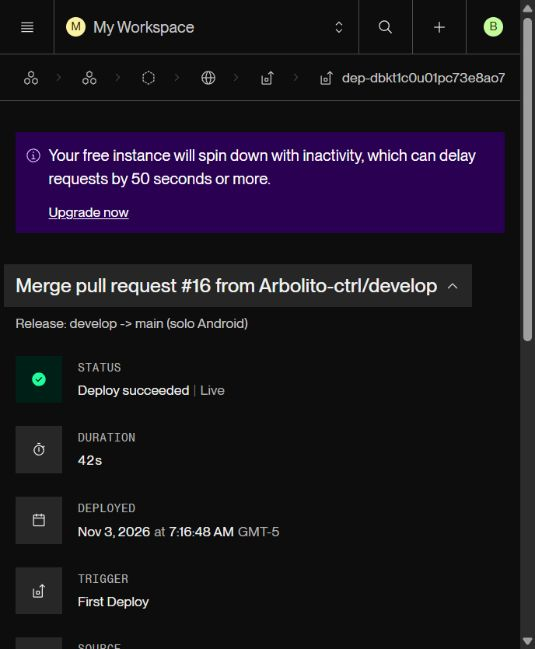
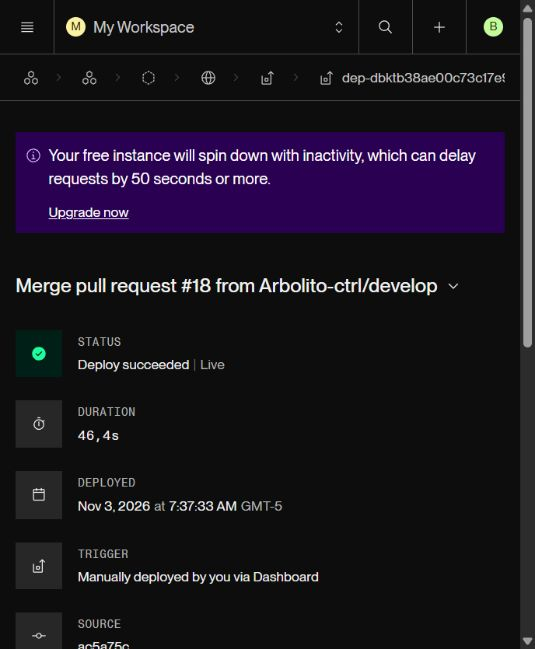
docs: registrar APK de produccion y reserva validada en TECNO

Changed region(s): [[0.0, 0.4006, 0.8972, 1.0], [0.7477, 0.0924, 0.957, 0.1541], [0.957, 0.5239, 1.0, 0.5547]]

diff --git a/backend/src/scripts/generatePdf.ts b/backend/src/scripts/generatePdf.ts
@@ -274,16 +274,16 @@ function generatePdf() {
 
   doc.addPage();
   h1('7. DESPLIEGUE Y VALIDACIÓN DE INFRAESTRUCTURA - ISSUE #14');
-  p('Responsable:', 'Juan Medina (jc2709). Rama juan/despliegue-apk-validacion y PR #17 a develop. Revisión: 3 de noviembre de 2026.');
-  p('API pública:', 'https://luxxito-sports-api.onrender.com/api. GET /health comprobado con HTTP 200 y db_mode POSTGRES_POOL. Primer despliegue Render del commit f4a507a de main.');
+  p('Responsable:', 'Juan Medina (jc2709). PR #17 integrado a develop con squash; PR #18 a main con merge commit. Revisión: 3 de noviembre de 2026.');
+  p('API pública:', 'https://luxxito-sports-api.onrender.com/api. GET /health comprobado con HTTP 200, db_mode POSTGRES_POOL y db_ready=true. Commit ac5a75c de main activo en Render a las 07:38 de Perú.');
   p('Servicio:', 'Render Free, Node 22, raíz backend, build npm ci --include=dev && npm run build, inicio node dist/server.js y health /api/health. Las variables privadas solo se configuran en Render; no están en Git.');
   p('Workflow del APK:', 'Los secretos pasan por env y los argumentos --dart-define se entrecomillan. Una validación previa rechaza URLs con espacios/paréntesis o IPs locales. API_BASE_URL apunta a la API pública.');
   p('Consumo de API propia:', 'El APK no cambia silenciosamente a Supabase directo. El teléfono usa HTTPS y dispone de 60 segundos de timeout para el despertar del servicio gratuito. La descarga debe provenir del release latest-apk actualizado.');
   p('Historial integrado:', 'PR #11: promoción de identidad, QR y expiración; PR #12: endpoint comprobantes/RPC; PR #13: promoción; PR #15/#16: enfoque solo Android. La integración de un endpoint no demuestra por sí sola que su función esté completa.');
-  p('Comprobaciones de este cambio:', 'Build backend correcto; 21/21 pruebas API locales y 3/3 pruebas de configuración. CI del PR verde para el commit 2a2b341. Resultado final del APK y promoción: consultar el informe de validación actualizado.');
-  p('Pendiente Android físico:', 'Instalar el APK actual, registrar modelo/versión y capturar el recorrido. No se declara completada la prueba de punta a punta sin esa evidencia.');
+  p('Comprobaciones de este cambio:', 'Build backend correcto; 21/21 pruebas API locales y 3/3 pruebas de configuración. CI y workflow APK de main verdes. Release latest-apk del commit ac5a75c: versión 1.0.22, build 22.');
+  p('Android físico comprobado:', 'TECNO KJ5, Android 13: instalación, login demo, 6 canchas y Perfil correctos. Reserva #1 del 04/11/2026, 07:00-08:00, con 1 juego de chalecos: S/105. Se recupera tras cerrar la app y volver a iniciar sesión. Capturas en el informe de validación.');
   p('Fuera de este cambio:', 'Los fallos de pagos, upload de comprobantes y persistencia QR se atenderán después, por indicación de Juan. No se presentan aquí como corregidos; el criterio completo de aceptación de la issue sigue abierto.');
-  p('Evidencia:', 'docs/validaciones/2026-11-03-infra-issue14.md y capturas/infra-render-live.jpg. El PDF distingue pruebas locales, servicio publicado y validación física pendiente.');
+  p('Evidencia y límites:', 'docs/validaciones/2026-11-03-infra-issue14.md y capturas/. No se probó registro nuevo ni vencimiento físico tras 20 minutos. Las pruebas físicas cubren acceso, catálogo y reserva, sin pago, upload ni QR.');
 
   doc.end();
 

diff --git a/docs/validaciones/2026-11-03-infra-issue14.md b/docs/validaciones/2026-11-03-infra-issue14.md
@@ -1,35 +1,58 @@
 # Infraestructura de entrega — issue #14
 
 Fecha: 3 de noviembre de 2026 (Perú). Responsable: **Juan Medina (`jc2709`)**.
-Rama: `juan/despliegue-apk-validacion`. PR: https://github.com/Arbolito-ctrl/LuxxitoSports/pull/17.
+Rama de implementación: `juan/despliegue-apk-validacion`. [PR #17](https://github.com/Arbolito-ctrl/LuxxitoSports/pull/17) integrado a develop con squash (`670df99`); [PR #18](https://github.com/Arbolito-ctrl/LuxxitoSports/pull/18) integrado a main con merge commit (`ac5a75c`). Evidencia posterior en `juan/evidencia-android-infra`.
 
 ## Alcance acordado
 
-Workflow APK, servicio público, configuración de conexión y documentación. Los fallos de pagos, comprobantes y QR se atenderán después, según indicación de Juan. Esta evidencia no los declara corregidos ni cierra la aceptación de Android físico.
+Workflow APK, servicio público, configuración de conexión, prueba física de acceso/catálogo/reserva y documentación. Los fallos de pagos, comprobantes y QR se atenderán después, según indicación de Juan. Esta evidencia no los declara corregidos ni cierra la aceptación completa de la issue.
 
 ## Resultados observados
 
 | Comprobación | Evidencia / resultado |
 |---|---|
 | Conexión privada a PostgreSQL | `SELECT 1` correcto; no se muestra la cadena de conexión. |
-| Render | Servicio Free creado; primer despliegue exitoso del commit `f4a507a`, 03/11 a las 07:16-07:17 de Perú. |
-| URL pública | `https://luxxito-sports-api.onrender.com/api/health`: HTTP 200, `POSTGRES_POOL`. |
+| Render | Servicio Free actualizado al commit `ac5a75c` de main, activo el 03/11 a las 07:38 de Perú. Deploy `dep-dbktb38ae00c73c17e9g`. |
+| URL pública | `https://luxxito-sports-api.onrender.com/api/health`: HTTP 200, `POSTGRES_POOL`, `db_ready=true`, comprobado a las 07:39 de Perú. |
 | HTTP contra la nube | Catálogo: 3 complejos y 6 canchas; login demo jugador 200; `/auth/me` 200; pagos sin sesión 401 y con jugador 403. [Resultados sin tokens](capturas/infra-http-checks.json). |
 | Configuración GitHub | `API_BASE_URL` actualizado mediante API cifrada; no se almacenó en archivos versionados. |
 | Backend local | `npm run build` correcto; `npm test`: 21/21, con almacenamiento local. |
 | Regresión de configuración | `node --test .github/scripts/validate-apk-config.test.cjs`: 3/3. Rechaza valor con paréntesis y direcciones de emulador/locales. |
-| CI del PR | [Ejecución 41634684974](https://github.com/Arbolito-ctrl/LuxxitoSports/actions/runs/41634684974): verde para commit `2a2b341`. |
-| APK de desarrollo | [Ejecución 41634762450](https://github.com/Arbolito-ctrl/LuxxitoSports/actions/runs/41634762450): **verde**, incluida compilación y publicación de `dev-apk` del commit `2a2b341`. |
-| Android físico | Juan conectó el teléfono, pero ADB todavía no lo detecta; se está preparando transferencia USB/depuración. Instalación y capturas pendientes. |
+| CI de main | [Ejecución 41637229633](https://github.com/Arbolito-ctrl/LuxxitoSports/actions/runs/41637229633): **verde**, commit `ac5a75c`. |
+| APK de desarrollo | [Ejecución 41636523315](https://github.com/Arbolito-ctrl/LuxxitoSports/actions/runs/41636523315): **verde**, incluida compilación y publicación de `dev-apk` del commit `670df99`. |
+| APK de producción | [Ejecución 41637229736](https://github.com/Arbolito-ctrl/LuxxitoSports/actions/runs/41637229736): **verde**, publicación de [latest-apk](https://github.com/Arbolito-ctrl/LuxxitoSports/releases/tag/latest-apk), tag y notas del commit `ac5a75ca541d98fec4bb3aed70966246dc4ed4d0`. |
+| Android físico | TECNO SPARK 20, modelo TECNO KJ5, Android 13, pantalla 720×1612. Instalación ADB exitosa del archivo de producción; versión instalada `1.0.22`, build `22`. |
 
 ![Servicio Render publicado](capturas/infra-render-live.jpg)
 
+## Recorrido observado en el TECNO (07:44–07:46 de Perú)
+
[1 lines of base64/hex data omitted]
+2. Iniciar sesión con la cuenta demo de jugador existente: acceso correcto. Explorar carga **6 canchas** sin `[0 TIMEOUT]`.
+3. Abrir Cancha Monumental 1 y consultar disponibilidad del **04/11/2026, 07:00–08:00**.
+4. Añadir **1 Juego de Chalecos (x12)**: cancha S/90 + extra S/15 = **S/105**, cotización visible.
+5. Reservar: aparece “¡Turno reservado!” y la **reserva #1** queda “Por pagar”, sin pagos, con contador de 20 minutos.
+6. Abrir Perfil: datos del jugador cargan correctamente. No se publica captura de DNI/teléfono.
+7. Cerrar completamente la app, abrirla y volver a iniciar sesión: la reserva #1 se recupera en Mis reservas, por S/105 y con el mismo extra. La sesión requiere nuevo login tras cerrar el proceso; no se afirma persistencia del inicio de sesión.
+
+No se registró ni aprobó un pago, ni se cargó un archivo, ni se verificó un QR en este recorrido. La reserva de prueba queda sin pago y sujeta al vencimiento normal; esta sesión no acredita el cambio real a VENCIDA tras 20 minutos.
+
+| Captura | Qué demuestra |
+|---|---|
+| [Explorar](capturas/android-explorar.png) | Login correcto y catálogo de 6 canchas en el teléfono. |
+| [Cotización con extra](capturas/android-cotizacion-extras.png) | Selección de horario y total S/105. |
+| [Reserva creada](capturas/android-reserva-creada.png) | Respuesta visible de creación del turno. |
+| [Mis reservas](capturas/android-mis-reservas.png) | Reserva #1, extra y contador del bloqueo. |
+| [Tras reiniciar](capturas/android-reserva-persistida.png) | La reserva se recupera después de cerrar el proceso y autenticarse de nuevo. |
+
 ## Pendientes para cerrar #14
 
-- [ ] Confirmar workflow APK verde y asset del release correspondiente al commit actual.
-- [ ] Promover a develop con squash y después a main con merge commit, con checks aplicables verdes.
-- [ ] Desplegar la versión promovida y repetir health/consultas.
-- [ ] Instalar el APK nuevo en Android físico y registrar modelo, versión, fecha y pasos.
-- [ ] Ejecutar y registrar el recorrido permitido por las funciones actuales; los fallos aplazados deben constar, no fabricarse como aprobados.
+- [x] Confirmar workflow APK verde y asset del release correspondiente al commit compilado.
+- [x] Promover a develop con squash y después a main con merge commit, con checks aplicables verdes en develop.
+- [x] Desplegar la versión promovida y repetir health/consultas.
+- [x] Instalar el APK nuevo en Android físico y registrar modelo, versión, fecha y pasos.
+- [x] Ejecutar y registrar el recorrido permitido por las funciones actuales; los fallos aplazados constan y no se presentan como aprobados.
+- [ ] Registrar una prueba física de registro de usuario nuevo y del vencimiento real tras 20 minutos.
+- [ ] Atender pagos, upload real y QR; luego ejecutar el flujo completo y el segundo escaneo 409 antes de cerrar la issue.
 
 No se ejecutó `db:init` ni se resembró la base compartida. Ninguna captura contiene secretos. Las pruebas con almacenamiento local no acreditan persistencia de QR ni upload real.

diff --git a/docs/DOCUMENTO_TECNICO_TALLER3.md b/docs/DOCUMENTO_TECNICO_TALLER3.md
@@ -5,7 +5,9 @@
 
 **Infraestructura (Juan Medina, issue #14 / PR #17):** API pública en `https://luxxito-sports-api.onrender.com/api`; `/health` responde 200 con `POSTGRES_POOL`. Render Free, Node 22, ejecución compilada. El APK usa la API propia; la URL se valida y pasa como variable entre comillas al compilador. Evidencia en `docs/validaciones/2026-11-03-infra-issue14.md`.
 
-**Límites de esta entrega:** 21 pruebas aprobadas en almacenamiento local; no equivalen a pruebas PostgreSQL/Storage ni a una demo física. La instalación y el flujo completo en Android están pendientes de evidencia. Los fallos conocidos de pagos, comprobantes y QR fueron aplazados por Juan; no se declaran corregidos en el trabajo de infraestructura.
+**Validación física:** APK de producción `1.0.22` (build 22), commit `ac5a75c`, instalado en TECNO KJ5 con Android 13. Login demo, 6 canchas, Perfil, cotización con chalecos S/105 y creación/recuperación de reserva #1 correctos. Workflows de main verdes, PR #17/#18 integrados y API desplegada con `db_ready=true`.
+
+**Límites de esta entrega:** 21 pruebas aprobadas en almacenamiento local; no equivalen a pruebas PostgreSQL/Storage. Los fallos conocidos de pagos, comprobantes y QR fueron aplazados por Juan; no se declaran corregidos. Registro nuevo, vencimiento físico de 20 minutos y flujo pago/archivo/QR continúan pendientes. Capturas y resultados en el informe de validación.
 
 ---
 
@@ -48,4 +50,4 @@
    - Fechas u horas ya transcurridas, horarios fuera de atención o duración mayor a 4 horas (`422 Unprocessable Entity`).
    - Turnos ocupados/bloqueados, extras sin stock, doble escaneo de QR o QR de reserva cancelada (`409 Conflict`).
 8. **¿Cómo comprobarán cada resultado?**  
-   Mediante la suite automatizada de **20 pruebas de integración** con **Vitest y Supertest** (`npm test`), la colección **Postman** (`docs/LuxxitoSports.postman_collection.json` con 32 requests y 52 aserciones) y la demostración en vivo desde la app móvil **Flutter** contra **Supabase**.
+   Mediante **21 pruebas API locales** con **Vitest y Supertest** (`npm test`), la colección **Postman** (resultados previos del equipo: 32 requests y 52 aserciones) y pruebas físicas de Flutter contra la API Node pública respaldada por PostgreSQL de Supabase. El recorrido observado y sus límites se registran por separado en `validaciones/2026-11-03-infra-issue14.md`.

diff --git a/docs/ESTADO.md b/docs/ESTADO.md
@@ -1,16 +1,17 @@
 # Estado Vigente del Proyecto — Luxxito Sports
 
 **Fecha de corte:** 3 de noviembre de 2026 (Perú)  
-**Etapa:** Infraestructura de entrega en validación (issue #14, PR #17). Los bloques están integrados, pero no se declara completada la prueba de punta a punta en Android físico.
+**Etapa:** Infraestructura publicada y acceso/catálogo/reserva validados en Android físico (issue #14, PR #17/#18). El recorrido completo pago/comprobante/QR permanece pendiente.
 
 ## Estado confirmado de infraestructura — Juan Medina
 
 - Servicio Render gratuito publicado: `https://luxxito-sports-api.onrender.com/api`.
 - Health verificado el 03/11/2026: HTTP 200 y `db_mode=POSTGRES_POOL`.
-- Primer despliegue Render: commit `f4a507a` de main (PR #16, enfoque solo Android).
+- Despliegue Render actualizado: commit `ac5a75c` de main (PR #18), activo el 03/11/2026 a las 07:38 de Perú; health 200 y `db_ready=true`.
 - Se corrigió la interpolación de variables en el workflow, se validó API_BASE_URL y se actualizó el secreto con la URL pública. No se publican valores privados en los informes.
-- PR #17: infraestructura, configuración de APK y documentación. El resultado final del workflow y la promoción se registra en [la evidencia](validaciones/2026-11-03-infra-issue14.md).
-- Prueba en teléfono físico: pendiente; no confundir tests/compilación con instalación y flujo real.
+- PR #17 integrado a develop con squash; PR #18 integrado a main con merge commit. Autor: Juan Medina (`jc2709`). El resultado del APK y la prueba física se registra en [la evidencia](validaciones/2026-11-03-infra-issue14.md).
+- APK de producción `1.0.22` (build 22), commit `ac5a75c`: workflow verde y publicado en [latest-apk](https://github.com/Arbolito-ctrl/LuxxitoSports/releases/tag/latest-apk).
+- TECNO KJ5, Android 13: instalación, login demo, 6 canchas, Perfil y reserva #1 con chalecos por S/105 comprobados. La reserva se recupera al reiniciar y volver a iniciar sesión; capturas en el informe de evidencia.
 - Pagos, upload de comprobantes y persistencia QR: fallos conocidos aplazados expresamente por Juan; fuera de este cambio.
 
 La tabla siguiente conserva los resultados reportados previamente por el equipo. Las 21 pruebas API se repitieron en LOCAL_STORE; no prueban Storage ni PostgreSQL real.
